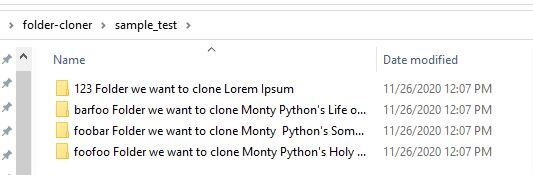
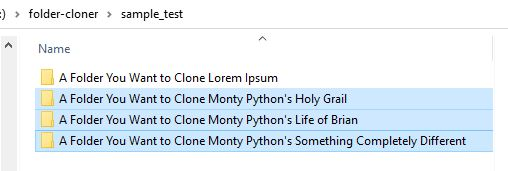
Updated readme and updated images
Increased detail and fixed a few typos in Readme, and updated images to be cleaner.

diff --git a/clone_test.py b/clone_test.py
@@ -14,7 +14,7 @@ import os
 	# key: the term that will be replaced from the original file
 	# value: the replacement term that will be found in the updated replacement file
 rep_list = [
-	{'Ipsum': 'Python\'s Something Completely Different', 'Lorem': 'Monty ', '123': 'foobar'}, 
+	{'Ipsum': 'Python\'s Something Completely Different', 'Lorem': 'Monty', '123': 'foobar'}, 
 	{'Ipsum': 'Python\'s Life of Brian', 'Lorem': 'Monty', '123': 'barfoo'},
 	{'Ipsum': 'Python\'s Holy Grail', 'Lorem': 'Monty', '123': 'foofoo'}, 
 ]

diff --git a/README.md b/README.md
@@ -5,7 +5,7 @@ Short script to duplicate ("clone") a directory and its contents. However, clone
 <!-- ABOUT THE PROJECT -->
 ## About The Project
 
-![Folder Cloner Example Use][example-use]]
+![Folder Cloner Example Use][example-use]
 
 Ever had the tedious task of duplicating a Microsoft Word file and making small changes to the text throughout the document? Find and Replace is a valuable friend.
 
@@ -13,13 +13,13 @@ But what if your task requires multiple Word Docs to be changed? You'd need to o
 
 Let's add another layer to this onion. Let's say that instead of duplicating a set of Word files once, you needed to make multiple duplicates, each with small changes throughout. Now the time you're spending searching and replacing the text in all those documents has become quite the chore.
 
-Sure, you could use Word's [Templating System](https://docs.microsoft.com/en-us/power-platform/admin/using-word-templates-dynamics-365), but that requires time and effrot to build a template to be made for each base file you want to duplicate. Maybe you've been passed a set of files that you didn't create, but the changes need to be made throughout.
+Sure, you could use Word's [Templating System](https://docs.microsoft.com/en-us/power-platform/admin/using-word-templates-dynamics-365), but that requires time and effort to build a template for each base file you want to duplicate. Maybe you've been given a set of files that you didn't create, but the changes need to be made throughout.
 
 Enter the Folder Cloner.
 
-The Folder Cloner is a small script that abstracts away all those steps of finding and replacing so you can focus on getting your updated information where it needs to go. Provide the Folder Cloner a directory to clone and a dictionary of terms to replace, and it does the rest.
+The Folder Cloner is a small script that abstracts away all those steps of finding and replacing strings in Word documents so you can focus on getting your updated information where it needs to go. Provide the Folder Cloner a directory to clone and a dictionary of terms to replace, and it does the rest.
 
-The Folder Cloner applies changes to both `.doc` and `.docx` files, but cloned file results are in `.doc` format only. 
+The Folder Cloner applies changes to all `.doc` and `.docx` files in a provided directory, but all cloned files are rewritten in `.doc` format only. 
 
 Replacement string changes are made:
 * in the newly cloned folder name 
@@ -51,9 +51,9 @@ In order to use the Folder Cloner, you must first have Python and pip installed 
 python get-pip.py -g
 ```
 
-* Git is a version control system. In this project, Git is used to clone (copy) the most up-to-date project files from GitHub to your local machine. Download the latest version of [git](https://git-scm.com/download/win) and install on your local machine.
+Git is a version control system. In this project, Git is used to clone (copy) the most up-to-date project files from GitHub to your local machine. Download the latest version of [git](https://git-scm.com/download/win) and install on your local machine.
 
-* This project also relies on the underlying function of Microsoft Word to edit `.doc` and `.docx` files. A local installation of Microsoft Word is required to run this script. 
+This project also relies on the underlying function of Microsoft Word to edit `.doc` and `.docx` files. A local installation of Microsoft Word is required to run this script. 
 
 
 ### Installation
@@ -79,9 +79,9 @@ Run the Folder Cloner by opening command line, navigating to the installation fo
 python main.py
 ```
 
-To see an example of the Folder Cloner, navigate to the `//sample test` directory of this project. This folder contains a Word file filled with boilerplate text. This is the folder (and contained files) that we want to clone in this example.
+To see an example of the Folder Cloner, navigate to the `//sample test` directory of this project. This folder contains a subfolder that we want to clone. This subfolder contains a few Word files filled with boilerplate text.
 
-![Folder Cloner Use Example Origianl File][use-files-before]
+![Folder Cloner Use Example Original File][use-files-before]
 
 
 Then, navigate to the root directory of this project and open up the `clone_test.py` file.
@@ -107,11 +107,11 @@ Finally, to see the Folder Cloner in action, open the command line, navigate to 
 python clone_test.py
 ```
 
-This results in the duplicated folders...
+This duplicates our original folder (incorporating replacements into the folder name)...
 
 ![Folder Cloner Use Example Folders Result][use-folders-after]
 
- and files into the `//sample test` directory, and we can see all desired changes have been made to the folder names, file names, and content within the word documents:
+...as well as making all desired replacements to the file names and content within each word document:
 
 ![Folder Cloner Use Example Files Result][use-files-after]
 
